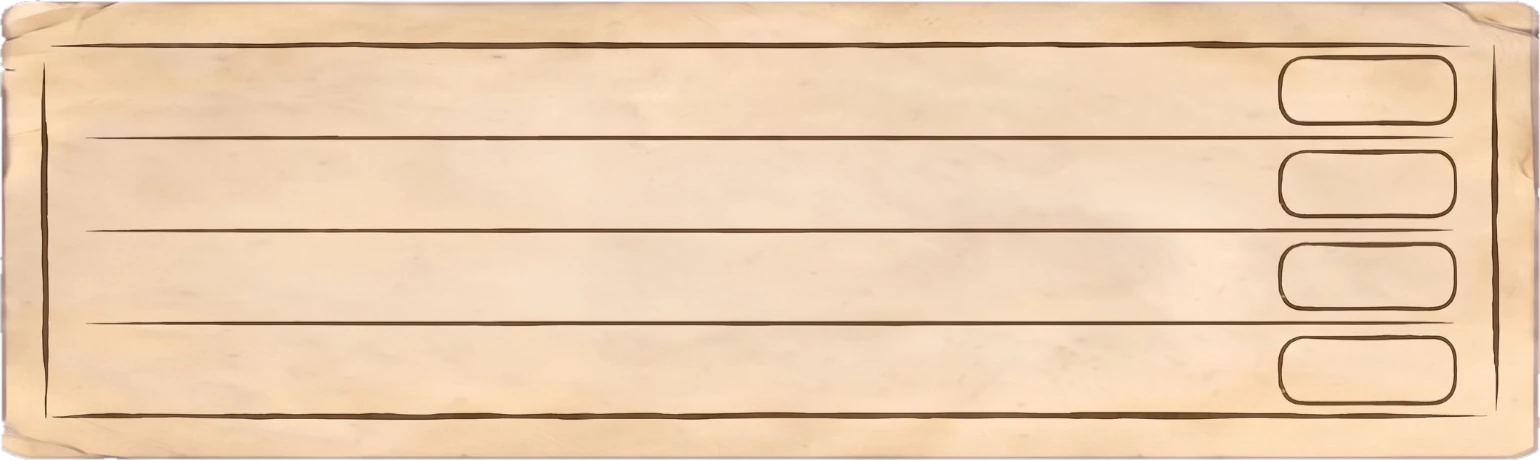
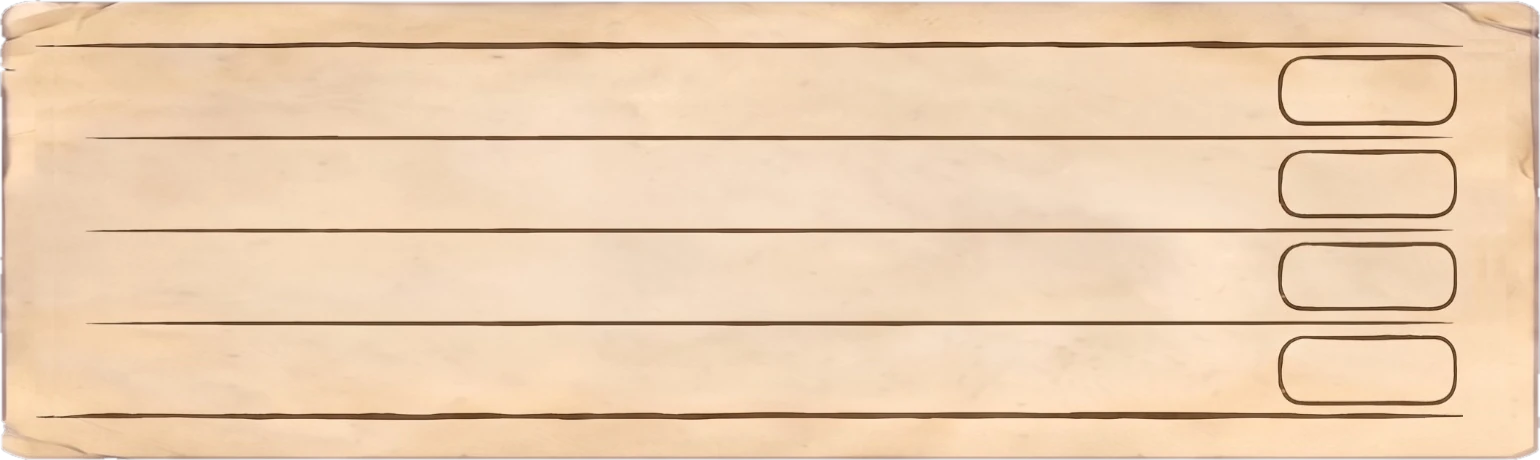
fix: cartao de atributos sem as linhas laterais (so a de cima e a de baixo) e margens do texto iguais (R-UI-22)

Changed region(s): [[0.9662, 0.1826, 0.9974, 0.7913], [0.0, 0.213, 0.0312, 0.7913]]

diff --git a/src/web/style.css b/src/web/style.css
@@ -4485,7 +4485,7 @@ html[data-ui="v2"] #app[data-tab="perfil"] .weapon-box .weapon-slot { position: 
 /* atributos: cartão rígido com 4 linhas; o + fica dentro do contorno desenhado */
 html[data-ui="v2"] #app[data-tab="perfil"] .profile-stats-panel.compact { aspect-ratio: 1540 / 460; background: none; border: 0; padding: 0; }
 html[data-ui="v2"] #app[data-tab="perfil"] .profile-stats-panel.compact::before { inset: 0; background-image: url("/assets/ficha/a-cartao.webp"); }
-html[data-ui="v2"] #app[data-tab="perfil"] .profile-stats-panel.compact .attr-compact-list { position: absolute; left: 6.1%; right: 5.55%; top: 9.83%; bottom: 9.57%; height: auto; display: grid; grid-template-rows: repeat(4, 1fr); }
+html[data-ui="v2"] #app[data-tab="perfil"] .profile-stats-panel.compact .attr-compact-list { position: absolute; left: 5.7%; right: 5.7%; top: 9.83%; bottom: 9.57%; height: auto; display: grid; grid-template-rows: repeat(4, 1fr); }
 html[data-ui="v2"] #app[data-tab="perfil"] .attr-c-row { border: 0; grid-template-columns: 1fr 4.6rem 0.7rem 3.4rem; }
 html[data-ui="v2"] #app[data-tab="perfil"] .attr-c-name, html[data-ui="v2"] #app[data-tab="perfil"] .attr-c-pts { color: #2b2015; }
 html[data-ui="v2"] #app[data-tab="perfil"] .btn-attr-plus { width: 3.3rem; height: 1.2rem; font-size: 1.1rem; justify-self: center; }

diff --git a/tests/unit/fichaNova.test.ts b/tests/unit/fichaNova.test.ts
@@ -284,7 +284,7 @@ describe('Ficha nova em teste (R-FICHA-ARTE-1)', () => {
   it('cartão de atributos na folha da Arma: proporção 1540/460, 4 faixas iguais e caixas dos botões na medida (R-UI-22)', () => {
     expect(existsSync('public/assets/ficha/a-cartao.webp')).toBe(true);
     expect(css).toMatch(/\.profile-stats-panel\.compact \{ aspect-ratio: 1540 \/ 460;/);
-    expect(css).toMatch(/\.attr-compact-list \{ position: absolute; left: 6\.1%; right: 5\.55%; top: 9\.83%; bottom: 9\.57%;[^}]*grid-template-rows: repeat\(4, 1fr\);/);
+    expect(css).toMatch(/\.attr-compact-list \{ position: absolute; left: 5\.7%; right: 5\.7%; top: 9\.83%; bottom: 9\.57%;[^}]*grid-template-rows: repeat\(4, 1fr\);/);
     expect(css).toMatch(/\.attr-c-row \{ border: 0; grid-template-columns: 1fr 4\.6rem 0\.7rem 3\.4rem; \}/);
     expect(css).toMatch(/\.btn-attr-plus \{ width: 3\.3rem; height: 1\.2rem;/);
   });

diff --git a/tools/atributos_recorte.py b/tools/atributos_recorte.py
@@ -47,6 +47,25 @@ def remap(a):
 img2 = splice_x(remap(img))
 pap2 = splice_x(remap(pap))
 W = img2.shape[1]
+
+# tira as duas linhas verticais de moldura (esquerda e direita), só entre a linha de cima e a de baixo; ficam as linhas de cima e de baixo
+SIDE_R = 11                   # meia largura apagada, em px
+GAP = 16                      # de onde vem o papel que preenche (px ao lado)
+ytop, ybot = int(round(dst[0])) - 14, int(round(dst[4])) + 14   # as linhas de cima e de baixo não chegam a estas colunas
+Lcol = (200 - img2.mean(axis=2)[ytop + 21:ybot - 21, :]).clip(0).mean(axis=0)
+left_x = 20 + int(np.argmax(Lcol[20:100]))
+right_x = W - 100 + int(np.argmax(Lcol[W - 100:W - 20]))
+for cx, sgn in ((left_x, 1), (right_x, -1)):
+    xa, xb = cx - SIDE_R, cx + SIDE_R + 1
+    src_cols = img2[ytop:ybot, xa + sgn * GAP:xb + sgn * GAP]
+    ramp = np.minimum(np.minimum(np.arange(xb - xa), np.arange(xb - xa)[::-1]) / 3.0, 1)[None, :, None]
+    img2[ytop:ybot, xa:xb] = src_cols * ramp + img2[ytop:ybot, xa:xb] * (1 - ramp)
+# pontinhas soltas das linhas de cima e de baixo, depois do fim delas (à direita): somem também
+for yy in (dst[0], dst[4]):
+    ya, yb = int(round(yy)) - 6, int(round(yy)) + 7
+    xa2 = int(W * 0.9505)
+    img2[ya:yb, xa2:W - 24] = img2[ya - 16:yb - 16, xa2:W - 24] if yy == dst[4] else img2[ya + 16:yb + 16, xa2:W - 24]
+print("linhas laterais apagadas em x =", left_x, right_x, "de", W)
 alpha = np.clip(ndi.gaussian_filter(ndi.binary_erosion(pap2 > 0.5, iterations=1).astype(float), 0.8), 0, 1)
 rgba = np.dstack([np.clip(img2, 0, 255).astype(np.uint8), (alpha * 255).astype(np.uint8)])
 Image.fromarray(rgba, "RGBA").save("public/assets/ficha/a-cartao.webp", "WEBP", quality=90, method=6)
@@ -61,3 +80,10 @@ print("colunas escuras x%:", [round(i / W * 100, 2) for i in range(2, W - 2) if 
 bx = (200 - Lc[:, 1700 - (CUT_B - CUT_A):1710 - (CUT_B - CUT_A)]).clip(0).mean(axis=1)
 runs = [i for i in range(H) if bx[i] > 40]
 print("caixas (varredura x=1700-1710) y%:", [round(i / H * 100, 2) for i in runs][:40])
+
+# onde as 3 divisórias e as linhas de cima/baixo começam e terminam (em % da folha)
+Lc2 = img2.mean(axis=2)
+for name, yy in zip(("cima", "div1", "div2", "div3", "baixo"), dst):
+    row = (200 - Lc2[int(round(yy)) - 2:int(round(yy)) + 3, :]).clip(0).mean(axis=0)
+    xs_ = np.where(row[40:W - 40] > 60)[0] + 40
+    print(name, "linha de x%.2f%% a x%.2f%%" % (xs_.min() / W * 100, xs_.max() / W * 100))

diff --git a/docs/REGRAS_DO_JOGO.md b/docs/REGRAS_DO_JOGO.md
@@ -140,7 +140,7 @@ Observação: com 7 minutos por ponto, uma missão de 15 energia custa 1h45 de e
 | R-UI-19 | **Folha da Arma com a pistola de placeholder** | A **folha da Arma** foi regerada pela IA (aprovada pelo fundador em 2026-11-13; `public/assets/ficha/a-arma.webp`, preparada por `tools/arma_recorte.py`: fundo transparente, com papel do topo acrescentado para a proporção do painel, 0,993:1 (com 44 px de papel liso a mais no topo, para o título respirar); **os títulos de seção EQUIPAMENTO, ARMA e MALA têm exatamente o mesmo tamanho (1,1 rem)**). O placeholder (antes, espadas cruzadas) é uma **pistola desenhada em traço fino** (sprite `a-arma-vazia.webp`), no miolo da moldura; **some quando há arma equipada**. | `src/web/style.css` (bloco R-UI-19), `public/assets/ficha/a-arma*.webp` | `tests/unit/fichaNova.test.ts` |
 | R-UI-20 | **Mouse do jogo** | No jogo (Estilo 2) o mouse tem **3 desenhos próprios**, na identidade de papel e tinta: **normal** (seta), **clicar** (mão apontando, em tudo que é clicável) e **arrastar** (mão fechada, em itens que se arrastam). Arquivos em `public/assets/cursors/`; variáveis `--cur-normal`, `--cur-pointer` e `--cur-grab` no CSS (todos os `cursor: pointer` e `cursor: grab` usam essas variáveis). Durante um arrasto em andamento o navegador controla o cursor e pode mostrar o dele. Desenhos feitos por IA e **aprovados pelo fundador em 2026-11-13**: **branco creme (#FBF6EA) com contorno vermelho escuro (#8C1C1C)**, PNG de 36 por 36, **os três na mesma escala** (mão clicável com 32 de altura; a seta e a mão segurando seguem a mesma proporção) e **contorno vermelho grosso**, preparados por `tools/cursores_recorte.py` (fundo verde vira transparência). Pontas do clique: seta (1,1), mão clicável (7,1), mão segurando (17,16). Pedido do fundador em 2026-11-13. | `src/web/style.css` (bloco R-UI-20), `public/assets/cursors/*.png` | `tests/unit/fichaNova.test.ts` |
 | R-UI-21 | **Slot comprado igual ao livre** | Na Mala, o slot **comprado** (da 11ª posição em diante, sem cadeado) tem o **mesmo desenho dos slots livres das fileiras 1 e 2**: moldura clara e a malinha de vazio. A folha da Mala nasceu com as fileiras 3 e 4 escuras (de bloqueadas), então o slot comprado recebe por cima um retalho da moldura clara (`c-slot-livre.webp`, gerado por `tools/secaoMala2_recorte.py`). Pedido do fundador em 2026-11-13. | `src/web/style.css` (bloco R-UI-21), `public/assets/ficha/c-slot-livre.webp` | `tests/unit/fichaNova.test.ts` |
-| R-UI-22 | **Cartão de atributos na folha da Arma** | O cartão dos 4 atributos usa a **mesma folha da Arma** (papel gasto, moldura de **linha única**), gerada por IA e aprovada pelo fundador em 2026-11-13: `public/assets/ficha/a-cartao.webp`, proporção **1540 por 460** (cortada uma faixa de papel liso para ficar menos comprida). São **5 linhas horizontais** (moldura de cima, 3 divisórias, moldura de baixo) com os **4 espaços entre elas idênticos** (a IA errou por até 4 px; `tools/atributos_recorte.py` iguala por código). Cada faixa tem uma caixa arredondada à direita, onde fica o botão **+** (3,3 rem de largura). Nome, pontos e seta ficam à esquerda. | `src/web/style.css` (bloco R-UI-22 dentro de R-UI-8), `public/assets/ficha/a-cartao.webp`, `tools/atributos_recorte.py` | `tests/unit/fichaNova.test.ts` |
+| R-UI-22 | **Cartão de atributos na folha da Arma** | O cartão dos 4 atributos usa a **mesma folha da Arma** (papel gasto, moldura de **linha única**), gerada por IA e aprovada pelo fundador em 2026-11-13: `public/assets/ficha/a-cartao.webp`, proporção **1540 por 460** (cortada uma faixa de papel liso para ficar menos comprida). Sem as linhas verticais de moldura nos lados (ficam só a de cima e a de baixo). São **5 linhas horizontais** (moldura de cima, 3 divisórias, moldura de baixo) com os **4 espaços entre elas idênticos** (a IA errou por até 4 px; `tools/atributos_recorte.py` iguala por código). Cada faixa tem uma caixa arredondada à direita, onde fica o botão **+** (3,3 rem de largura). Nome, pontos e seta ficam à esquerda; o texto começa onde as divisórias começam e o botão termina onde elas terminam (margens iguais de 5,7%). | `src/web/style.css` (bloco R-UI-22 dentro de R-UI-8), `public/assets/ficha/a-cartao.webp`, `tools/atributos_recorte.py` | `tests/unit/fichaNova.test.ts` |
 | R-MALA-11 | **Mala com 4 fileiras desenhadas (a 4ª ainda é só desenho)** | No Estilo 2 a Mala mostra 20 slots (5 x 4): 10 liberados, a fileira 3 trancada (comprável, como em R-MALA-10) e a fileira 4 trancada **só como desenho**, sem compra, porque o máximo real continua 15 e o preço de uma 2ª "mala maior" não foi definido. A área livre do equipamento de duelo tem a mesma altura da Mala (mesma altura da Mala, que tem slots 4:3 e título MALA e painel que tem o mesmo fundo e borda do Equipamento) | **Fundador, 2026-11-12** | `main.ts` (`BAG_DISPLAY_SLOTS`), `style.css` | `fichaNova.test.ts` |
 | R-MALA-12 | **Slots da Mala comprados um a um, fileira por fileira (substitui a "mala maior" de R-MALA-10)** | A Mala começa com **10 slots livres**. Cada slot bloqueado é comprado **sozinho**, com ouro, e **só o slot escolhido é liberado**. Dentro de uma fileira a ordem é livre; a **fileira de baixo só pode ser comprada depois que os 5 slots da de cima forem todos comprados**. **Preço por slot:** 3ª fileira **60** (o antigo 300 por fileira, dividido por 5; **valor assumido, a confirmar**), 4ª fileira **500**, 5ª fileira **750**, 6ª em diante **1000** (e fica em 1000). **Máximo hoje: 20 slots** (4 fileiras, a Mala visual); a 5ª fileira em diante precisa de rolagem na tela, ainda não feita. Quem já tinha 15 slots mantém os 15. O **servidor** confere a lista de slots comprados (só 10 a 19, sem repetir, regra da fileira, nunca diminui, ouro suficiente) antes de aceitar o save. Guardado em `bagOpen` (lista de slots) e `bagCapacity` (10 + quantidade). | **Fundador, 2026-11-13** (preços por fileira ditos em chat; preço da 3ª fileira assumido) | `src/shared/bag.ts`, `src/web/state.ts` (`buyBagSlot`), `src/web/weaponSlot.ts`, `src/web/main.ts` (`offerBagSlot`), `src/server/rules.ts` | `tests/unit/bigBag.test.ts`, `tests/unit/server.test.ts` |
 | R-OURO-3 | **Teto de ouro conferido pelo servidor** | O servidor recusa um save com ouro acima de 25 + 125 por nível acima do 1 + 30 por missão cumprida (o máximo que o jogo pode ter dado). Gastar sempre é aceito | Claude, 2026-11-11 | `src/shared/gold.ts` (`goldCap`), `rules.ts` (`validateSave`) | `gold.test.ts`, `server.test.ts` ("ouro acima do inicial é recusado") |
